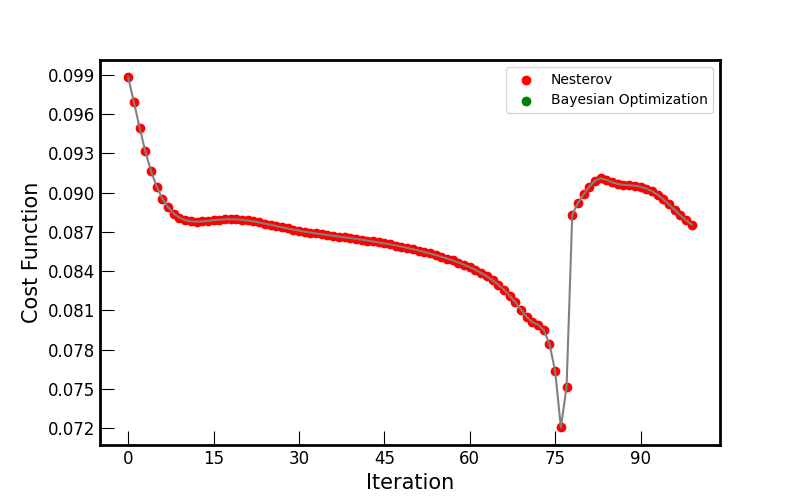
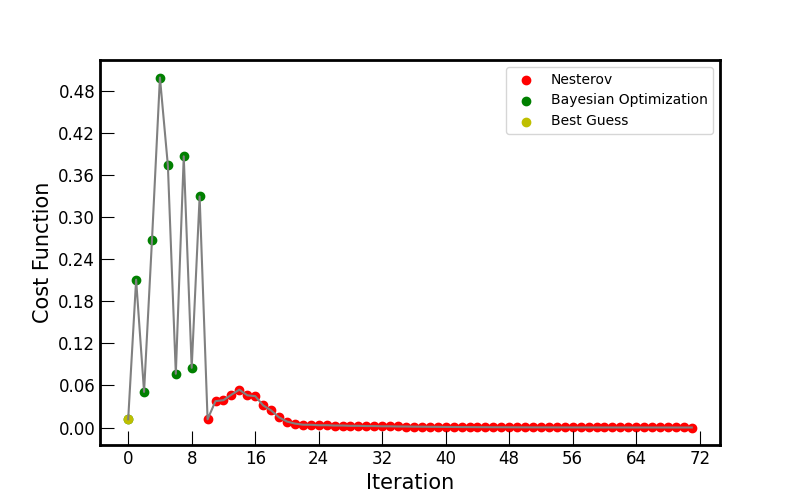
new optimization loop working

diff --git a/src/vqls/vqls_fast_and_slow.py b/src/vqls/vqls_fast_and_slow.py
@@ -33,15 +33,12 @@ class VQLS:
         if optimizer is None:
             optimizer = GradientDescentQML(eta=eta, tol=0.001, maxiter=20)
 
-        print(type(optimizer.name))
-
         if ansatz == "StrongEntangling":
             self.ansatz = StrongEntangling(self.nqubits, self.nlayers)
             self.nweights = self.nqubits * 3 * self.nlayers
             w = np.random.randn(self.nweights, requires_grad=True)
 
         cost_history = []
-        t0 = time()
 
         # fast optimization
         def print_progress(res_):
@@ -70,30 +67,13 @@ class VQLS:
 
         cost_history.append(cost_vals)
 
-        # for it in range(epochs):
-        #     ta = time()
-        #     # w, cost_val = opt.step_and_cost(self.cost, w)
-        #     w, cost_val = optimizer.optimize(self.cost, w)
-        #
-        #     print(optimizer.name)
-        #
-        #     print("{:21s}    Step {:3d}    obj = {:9.7f}    time = {:9.7f} sec".format(optimizer.name, it, cost_val,
-        #                                                                                time() - ta))
-        #     if np.abs(cost_val) < 1e-6:
-        #         break
-        #     cost_history.append(cost_val.item())
-        # print("\n Total Optimization Time: ", time() - t0, " sec")
-
         # make one single list
         cost_history = [item for sublist in cost_history for item in
                         (sublist if isinstance(sublist, list) else [sublist])]
 
-        # Get the minimum value
-        if epochs_bo > 0:
-            min_value = min(cost_history[0:epochs_bo])
-            min_index = cost_history[0:epochs_bo].index(min_value)
         fig, ax = plt.subplots(1, 1, figsize=(8, 5))
         plt.plot(cost_history, "grey", linewidth=1.5)
+
         try:
             plt.scatter(range(epochs_bo, epochs_bo + iters), cost_history[epochs_bo:], c="r", linewidth=1,
                         label=optimizer.name)
@@ -101,7 +81,11 @@ class VQLS:
             plt.scatter(range(epochs_bo, epochs_bo + epochs), cost_history[epochs_bo:], c="r", linewidth=1,
                         label=optimizer.name)
         plt.scatter(range(epochs_bo), cost_history[0:epochs_bo], c="g", linewidth=1, label="Bayesian Optimization")
+
+        # plot minimum bayes-opt value
         if epochs_bo > 0:
+            min_value = min(cost_history[0:epochs_bo])
+            min_index = cost_history[0:epochs_bo].index(min_value)
             plt.scatter(min_index, min_value, c="y", linewidth=1, label="Best Guess")
 
         ax.set_xlabel("Iteration", fontsize=15)
@@ -313,13 +297,17 @@ if __name__ == "__main__":
     solver = VQLS(A=A0, b=b0, nlayers=2)
 
     # choose optimizer
-    opt = NesterovMomentumQML(eta=1.0, maxiter=10, tol=0.01)
+    epochs = 100
+    epochs_bo = 10
+    stepsize = 1.0
+    tol = 1e-5
+    opt = NesterovMomentumQML(eta=stepsize, maxiter=epochs, tol=tol)
 
     # with bayes opt
     solver.opt(optimizer=opt,
-               epochs=100,
-               eta=1.0,
-               epochs_bo=10,
+               epochs=epochs,
+               eta=stepsize,
+               epochs_bo=epochs_bo,
                ansatz="StrongEntangling")
 
     plt.show()
